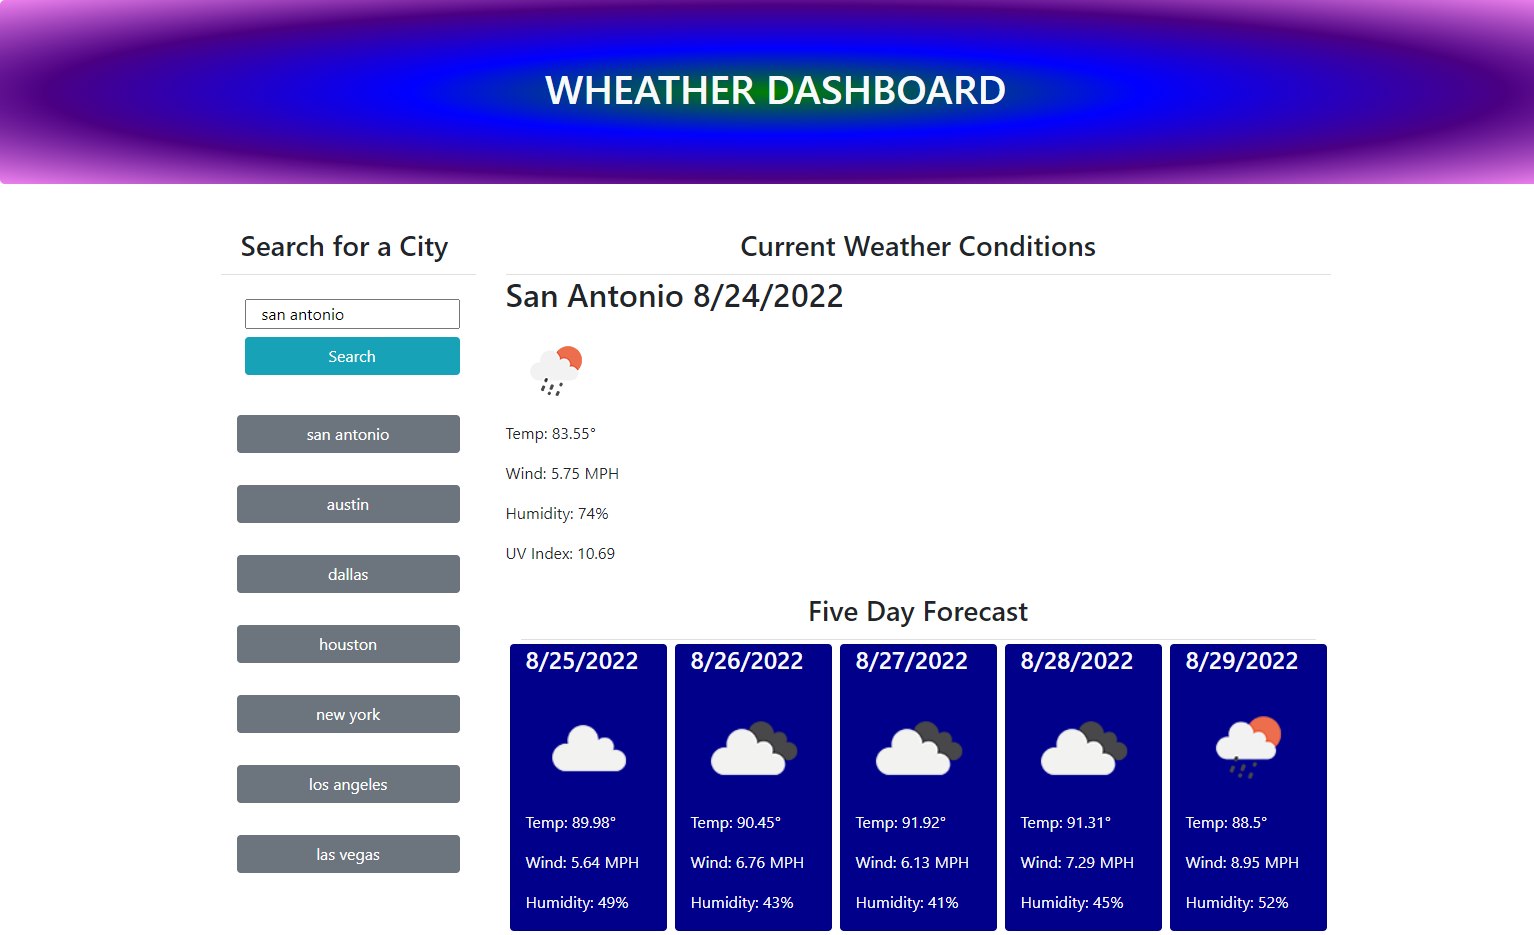
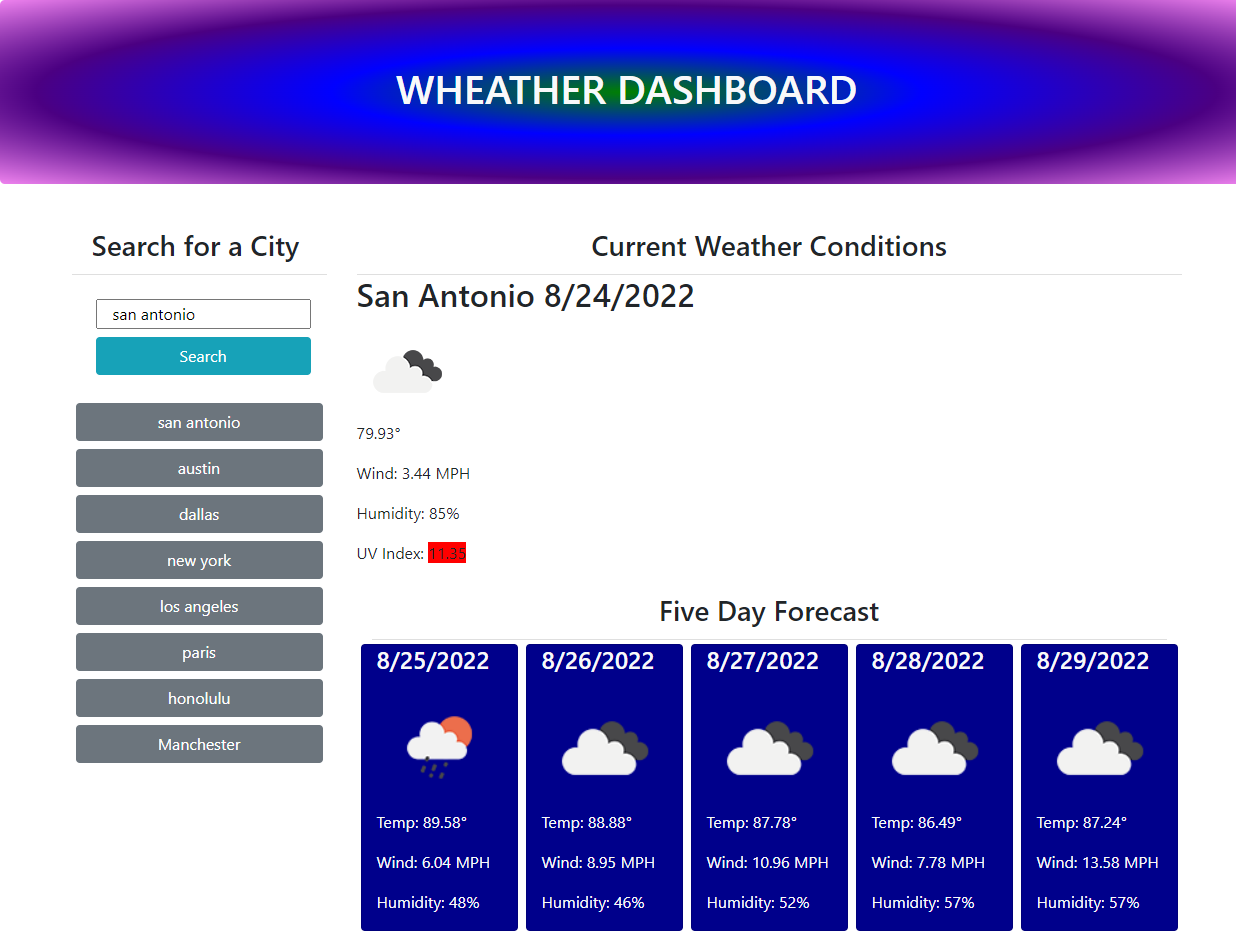
uv color-code

Changed region(s): [[0.0615, 0.2481, 0.9531, 1.0], [0.3074, 0.062, 0.7071, 0.1241], [0.0615, 0.2481, 0.3074, 0.2791]]

diff --git a/assets/js/script.js b/assets/js/script.js
@@ -1,6 +1,7 @@
 searchBtn = document.querySelector(".searchBtn");
 var searchInputEl = document.querySelector("#cityname");
 var searchedCities =  [];
+var uviSpan = document.getElementById("color-code")
 
 //label buttons with previously searched cities from local storage
 if(JSON.parse(localStorage.getItem("searchedCities"))){
@@ -82,13 +83,42 @@ $(".searchBtn").on("click", function(event) {
     .then((data1) => {
 
         //display uv index
-      $("#uv").text("UV Index: " + data1.value)
-    })  
+      var uvIndexValue = data1.value 
+      
+      var uvIndexValueEl = $("#color-code").text(uvIndexValue).css("background-color", uvColorCode(uvIndexValue));
+      uvIndexEl.append(uvIndexValueEl);
+    
+
+      function uvColorCode(uvIndex) {
+        var uvIndexValue = parseFloat(uvIndex);
+        var colorCode = "";
+        if (uvIndexValue <= 2) {
+          colorcode = "#008000";
+        }
+        else if ((uvIndexValue > 2) && (uvIndexValue <= 5)) {
+          colorCode = "#FFFF00";
+        }
+        else if ((uvIndexValue > 5) && (uvIndexValue <= 7)) {
+          colorCode = "#FFA500";
+        }
+        else if ((uvIndexValue > 7) && (uvIndexValue <= 10)) {
+          colorCode = "#FF4500";
+        }
+        else if (uvIndexValue > 10) {
+          colorCode = "#FF0000";
+        }
+        return colorCode;
+      }
+      
+      
+    })
+  
 
     //forecast fetch
     fetch("https://api.openweathermap.org/data/2.5/forecast?lat=" + data.coord.lat + "&lon=" + data.coord.lon + "&appid=" + apiKey + "&units=imperial")
     .then((response2) => response2.json())
     .then((data2) => {
+      console.log(data2)
     
         //display forecast weather conditions for five consecutive days
       $("#icon1").attr("src", "https://openweathermap.org/img/wn/" + data2.list[6].weather[0].icon + "@2x.png" )  

diff --git a/index.html b/index.html
@@ -36,7 +36,7 @@
                 <p class="card-info" id="temp0">Temp: </p>
                 <p class="card-info" id="wind0">Wind: </p>
                 <p class="card-info" id="hum0">Humidity: </p>
-                <p class="card-info" id="uv">UV Index: </p>
+                <p class="card-info" id="uv">UV Index: <span id="color-code"></span></p>
             <!-- five day forcast cards   -->
             <div class="col-12">
                 <h3 class="card-header text-center">Five Day Forecast</h3>

diff --git a/README.md b/README.md
@@ -1,18 +1,26 @@
 # weather-dashboard
 
-Upon first visit, user us presented with an input form to search a city for which they would like to know current and upcoming weather conditions. When the user enters the name of a city and clicks the search button, user is presented with the city name, current date, weather icon temperature, wind speed, humidity, and UV index. User is additionally presented with the projected temperature, wind speed, and humidity for the following five days including dates and weather icons. After each search, a button is created for future searches of the same cities. User is able to return to the application and be presented with these buttons upon load.
+Upon first visit, user us presented with an input form to search a city for which they would like to know current and upcoming weather conditions. When the user enters the name of a city and clicks the search button, user is presented with the city name, current date, weather icon temperature, wind speed, humidity, and UV index. UV index shows color indicating favorable, moderate, or severe conditions. User is additionally presented with the projected temperature, wind speed, and humidity for the following five days including dates and weather icons. After each search, a button is created for future searches of the same cities. User is able to return to the application and be presented with these buttons upon load.
 
 https://conniemarie.github.io/weather-dashboard/
 
+
 First visit
+
 ![deployed page1](https://user-images.githubusercontent.com/105762638/186533701-7e359965-876d-44c7-a99b-c796fa349836.png)
 
+
 Searched cities stored in list of buttons
-![deployed page2](https://user-images.githubusercontent.com/105762638/186533707-d4965611-d52d-4fd4-b918-a44c1c23ad76.png)
+
+![deployed page2](https://user-images.githubusercontent.com/105762638/186563803-e83d07b9-ebb2-48d2-85ca-c42ccf461be7.png)
+
 
 Snippet of html code
+
 ![html screenshot](https://user-images.githubusercontent.com/105762638/186533710-cb69a601-b8a6-4d50-9f89-fb58f2077ec8.png)
 
+
 Snippet of js code
+
 ![js screenshot1](https://user-images.githubusercontent.com/105762638/186533715-9244ed16-ea0a-4862-8af4-b224537c0f14.png)
 ![js screenshot2](https://user-images.githubusercontent.com/105762638/186533720-e5f89dee-9cb9-406e-8a6e-f1768f108653.png)
